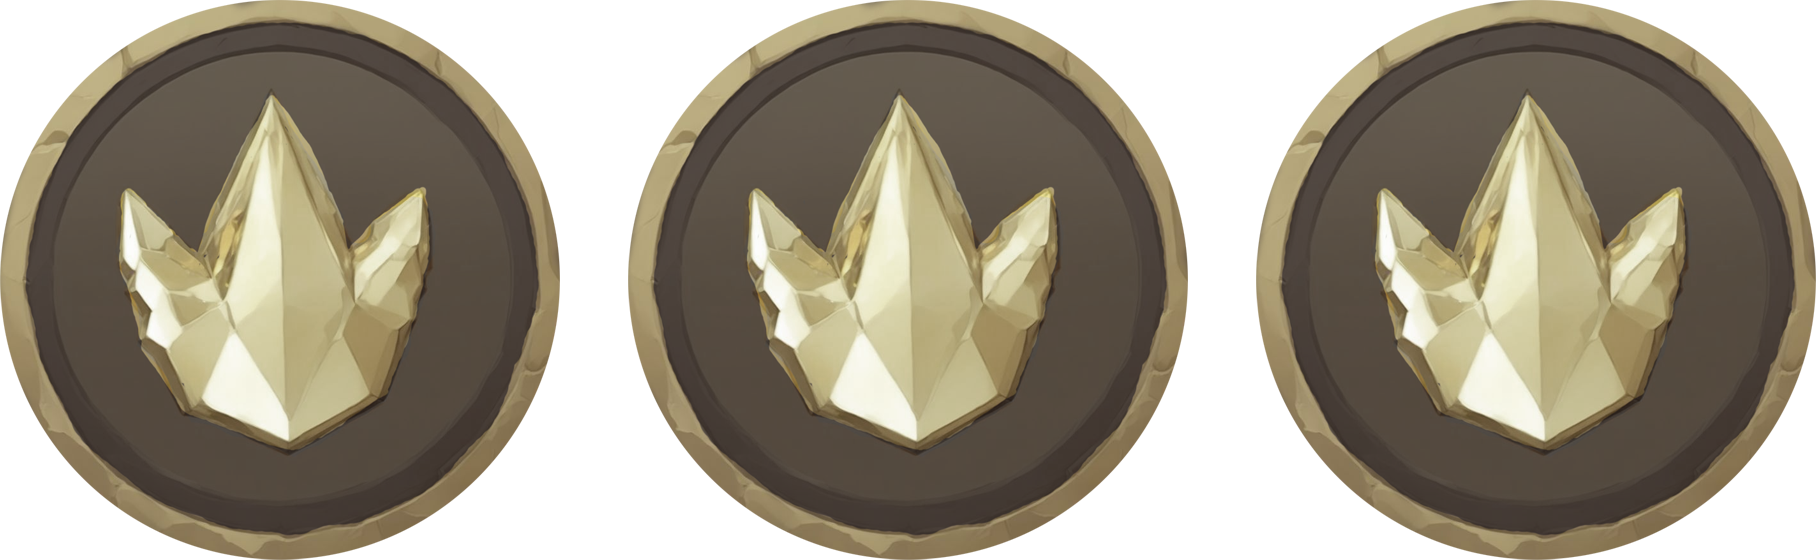
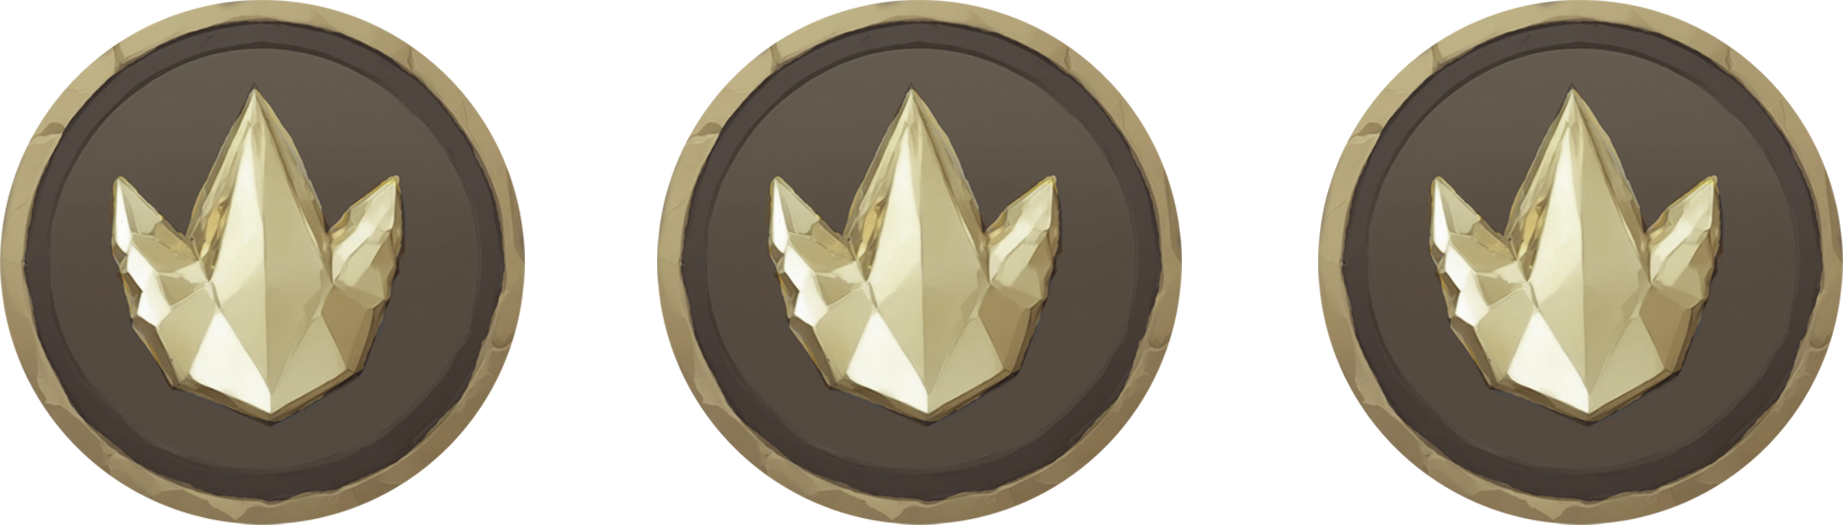
periodPaw new imgs.

diff --git a/src/pages/public/Map/Map.tsx b/src/pages/public/Map/Map.tsx
@@ -7,7 +7,7 @@ export const Map = () => {
       <Nav />
       <div className="map">
         <div className="periodTitleGoldBg period1Container">
-          <img src="/public/assets/img/map/period1Paws.png" alt="period level"/> 
+          <img src="/public/assets/img/map/period1Paws.png" alt="period level" />
           <div className="periodTitleFrame periodTitleFrame1">
             Triassic
             <br />
@@ -16,6 +16,7 @@ export const Map = () => {
         </div>
 
         <div className="periodTitleGoldBg period2Container">
+          <img src="/public/assets/img/map/period1Paws.png" alt="period level" />
           <div className="periodTitleFrame periodTitleFrame2">
             Jurassic
             <br />
@@ -24,6 +25,7 @@ export const Map = () => {
         </div>
 
         <div className="periodTitleGoldBg period3Container">
+          <img src="/public/assets/img/map/period1Paws.png" alt="period level" />
           <div className="periodTitleFrame periodTitleFrame3">
             Cretaceous
             <br />

diff --git a/src/pages/public/Map/Map.css b/src/pages/public/Map/Map.css
@@ -266,14 +266,21 @@ body {
   letter-spacing: 0.2vw;
   font-size: 0.8vw;
   color: rgb(237, 234, 207);
+  cursor: default;
 }
 
 .period1Container img,
-.period2Container img,
 .period3Container img {
-  width: 35%;
-  height: 28%;
-  top: -10%;
+  width: 40%;
+  height: 30%;
+  top: -15%;
+  position: absolute;
+}
+
+.period2Container img {
+  width: 40%;
+  height: 30%;
+  bottom: -15%;
   position: absolute;
 }
 
@@ -431,6 +438,7 @@ body {
   font-size: 0.5vw;
   border-radius: 5px;
   transition: all 500ms ease-in-out;
+  cursor: default;
 }
 
 .info-frame button:hover {
